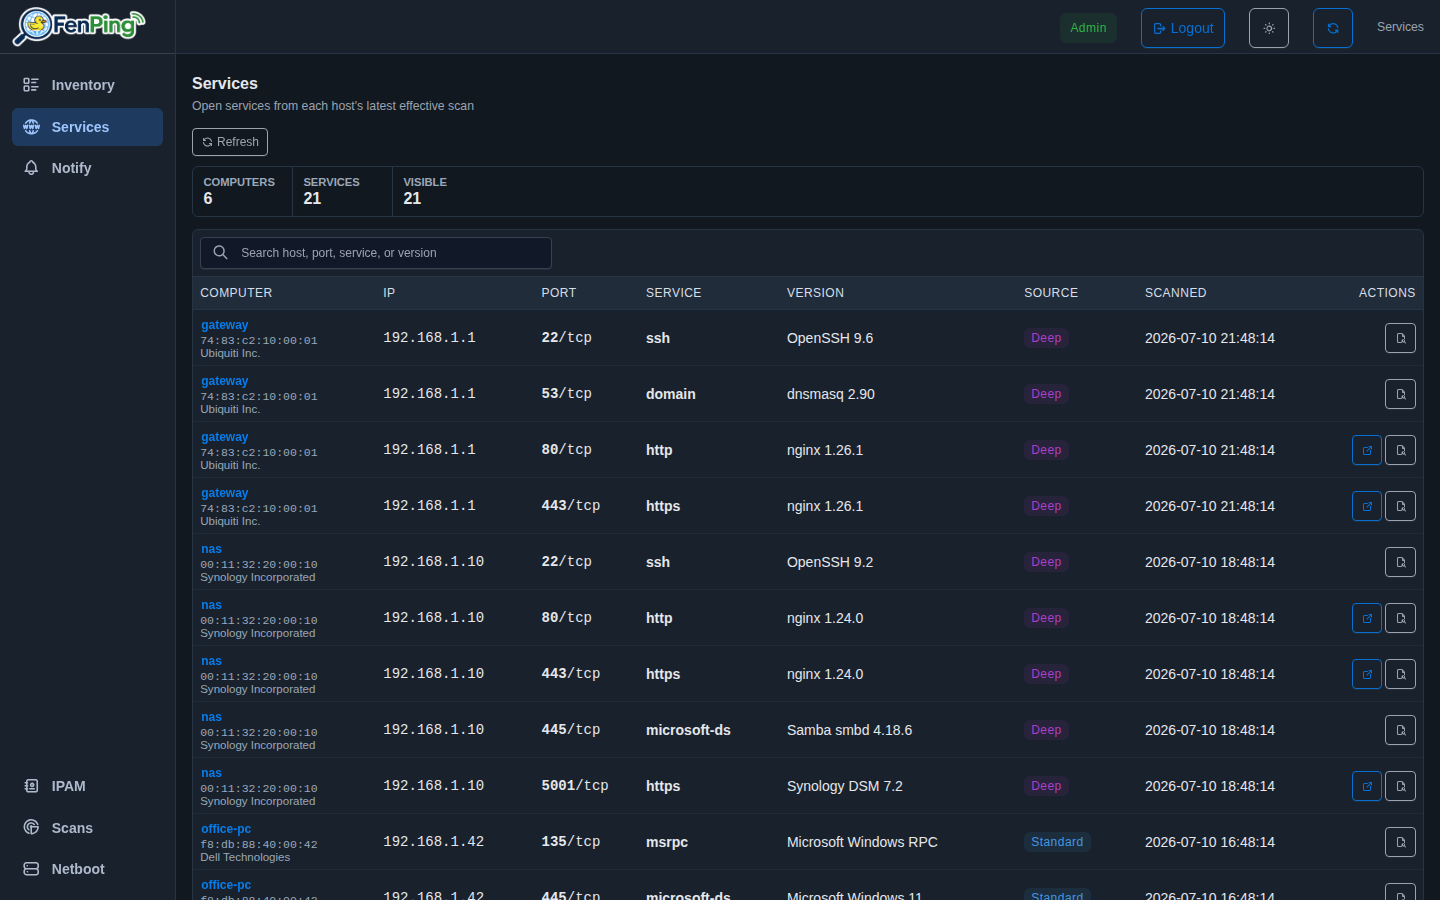
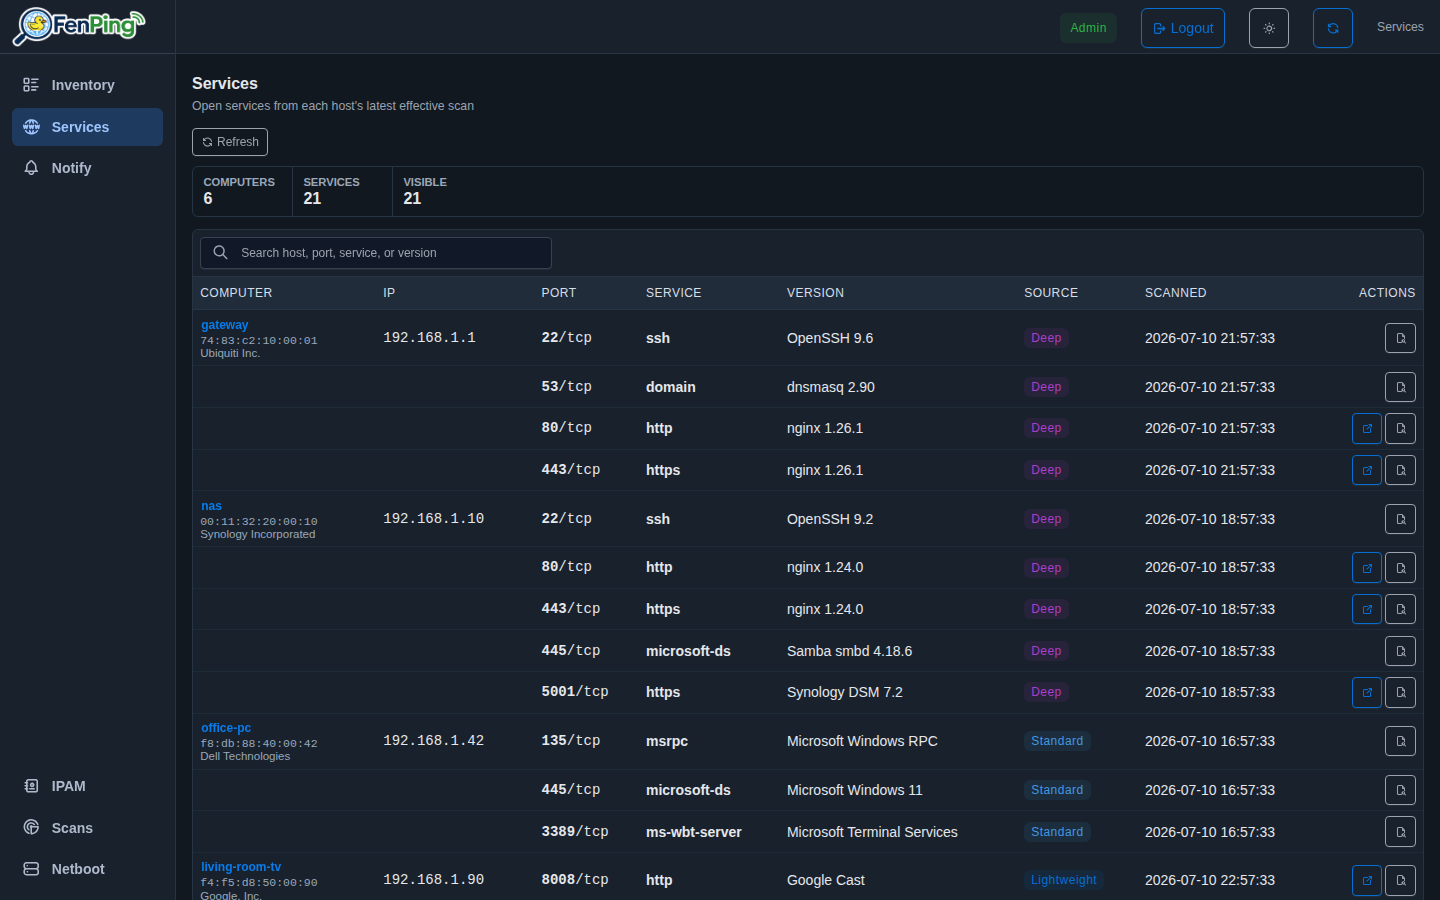
Group services by host

diff --git a/frontend/pages/ServicesPage.vue b/frontend/pages/ServicesPage.vue
@@ -24,12 +24,14 @@
           <tr v-else-if="!loading && visibleServices.length === 0"><td class="text-secondary text-center py-4" colspan="8">{{ search ? 'No matching services' : 'No open services found' }}</td></tr>
           <tr v-for="row in visibleServices" :key="`${row.ip}-${row.protocol}-${row.port}`">
             <td class="services-host">
-              <button v-if="row.host_id" class="btn btn-link btn-sm p-0 services-host-name" type="button" @click="$emit('host-detail', row.host_id)">{{ hostName(row) }}</button>
-              <strong v-else>{{ hostName(row) }}</strong>
-              <small v-if="row.mac" class="font-monospace">{{ formatMac(row.mac) }}</small>
-              <small v-if="row.vendor" :title="row.vendor">{{ row.vendor }}</small>
+              <template v-if="row.first_for_host">
+                <button v-if="row.host_id" class="btn btn-link btn-sm p-0 services-host-name" type="button" @click="$emit('host-detail', row.host_id)">{{ hostName(row) }}</button>
+                <strong v-else>{{ hostName(row) }}</strong>
+                <small v-if="row.mac" class="font-monospace">{{ formatMac(row.mac) }}</small>
+                <small v-if="row.vendor" :title="row.vendor">{{ row.vendor }}</small>
+              </template>
             </td>
-            <td class="font-monospace text-nowrap">{{ row.ip }}</td>
+            <td class="font-monospace text-nowrap">{{ row.first_for_host ? row.ip : '' }}</td>
             <td class="font-monospace text-nowrap"><strong>{{ row.port }}</strong>/{{ row.protocol }}</td>
             <td><strong>{{ row.service || 'unknown' }}</strong></td>
             <td class="services-version" :title="row.version || ''">{{ row.version || '-' }}</td>
@@ -64,9 +66,12 @@ const search = ref('');
 const request = useAbortableTask();
 const visibleServices = computed(() => {
   const query = search.value.trim().toLowerCase();
-  if (query === '') return services.value;
-  return services.value.filter((row) => [row.name, row.ip, row.mac, row.vendor, row.port, row.protocol, row.service, row.version, row.source]
+  const rows = query === '' ? services.value : services.value.filter((row) => [row.name, row.ip, row.mac, row.vendor, row.port, row.protocol, row.service, row.version, row.source]
     .some((value) => String(value || '').toLowerCase().includes(query)));
+  return rows.map((row, index) => ({
+    ...row,
+    first_for_host: index === 0 || String(rows[index - 1]?.ip || '') !== String(row.ip || '')
+  }));
 });
 
 usePageController({ loading, label: computed(() => loading.value ? 'Loading' : 'Services'), title: 'Refresh services', disabled: false, refresh: load });